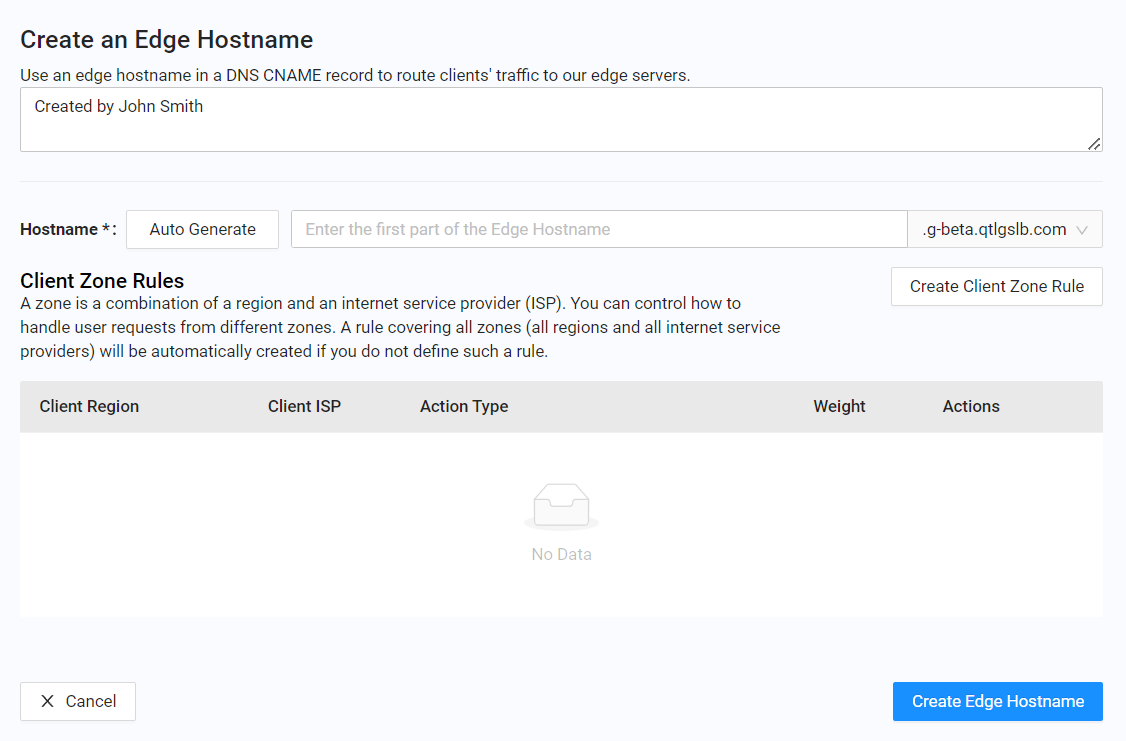
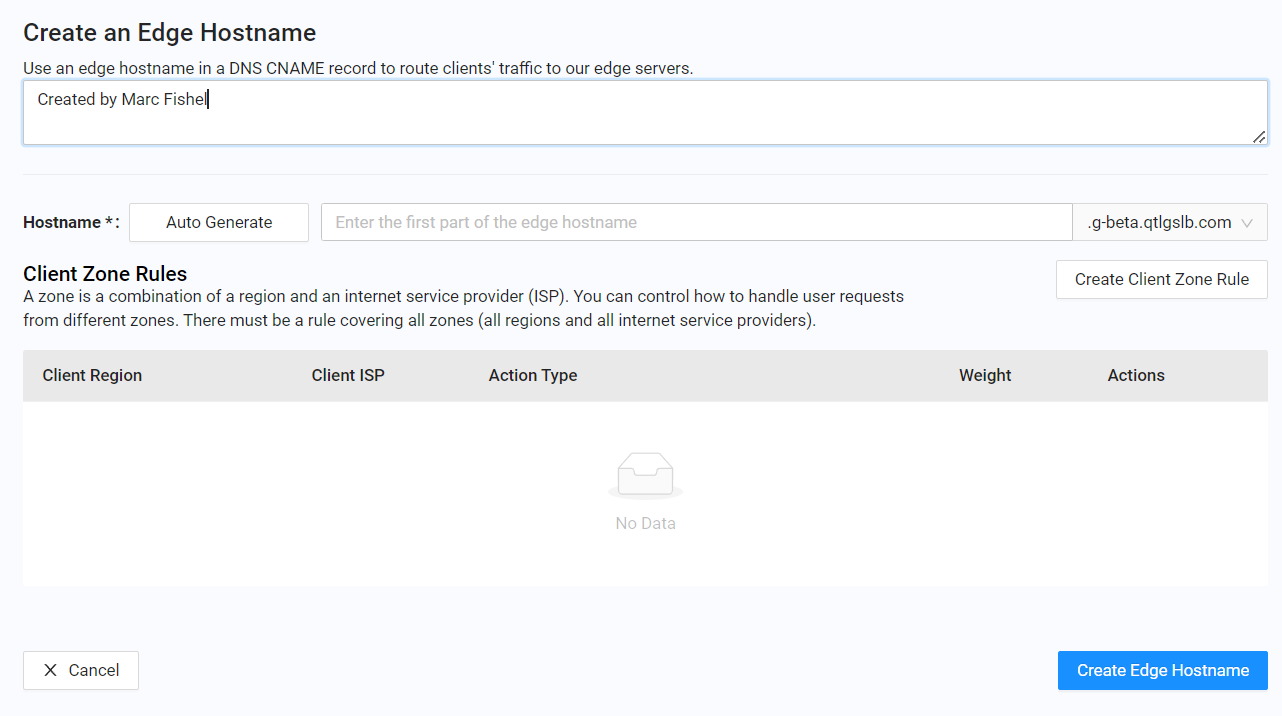
Addresses NGDOC-216

diff --git a/en/docs/portal/traffic-management/creating-edge-hostname.md b/en/docs/portal/traffic-management/creating-edge-hostname.md
@@ -1,6 +1,6 @@
 # Creating an Edge Hostname 
 
-An edge hostname in a CNAME record on your DNS system allows you to route end user requests. When you create an edge hostname, you define rules that determine how CDN Pro handles requests from different **client zones**. A client zone is a combination of a geographical region and one or more ISPs (for example, "US+Comcast").
+An edge hostname in a CNAME record on your DNS system allows you to route end user requests. When you create an edge hostname, you define rules that determine how CDN Pro handles requests from different **client zones**. A client zone is a combination of a geographical region and one or more ISPs (for example, "US+Comcast"). You can control how to handle user requests from different zones. There must be a rule covering all zones (all regions and all ISPs).
 
 1. In the left pane, click **Traffic Management**.
 2. At the top right of the screen, click the **Create Edge Hostname** button. 

diff --git a/zh/docs/portal/traffic-management/creating-edge-hostname.md b/zh/docs/portal/traffic-management/creating-edge-hostname.md
@@ -1,6 +1,6 @@
 # Creating an Edge Hostname 
 
-An edge hostname in a CNAME record on your DNS system allows you to route end user requests. When you create an edge hostname, you define rules that determine how CDN Pro handles requests from different **client zones**. A client zone is a combination of a geographical region and one or more ISPs (for example, "US+Comcast").
+An edge hostname in a CNAME record on your DNS system allows you to route end user requests. When you create an edge hostname, you define rules that determine how CDN Pro handles requests from different **client zones**. A client zone is a combination of a geographical region and one or more ISPs (for example, "US+Comcast"). You can control how to handle user requests from different zones. There must be a rule covering all zones (all regions and all ISPs).
 
 1. In the left pane, click **Traffic Management**.
 2. At the top right of the screen, click the **Create Edge Hostname** button. 
